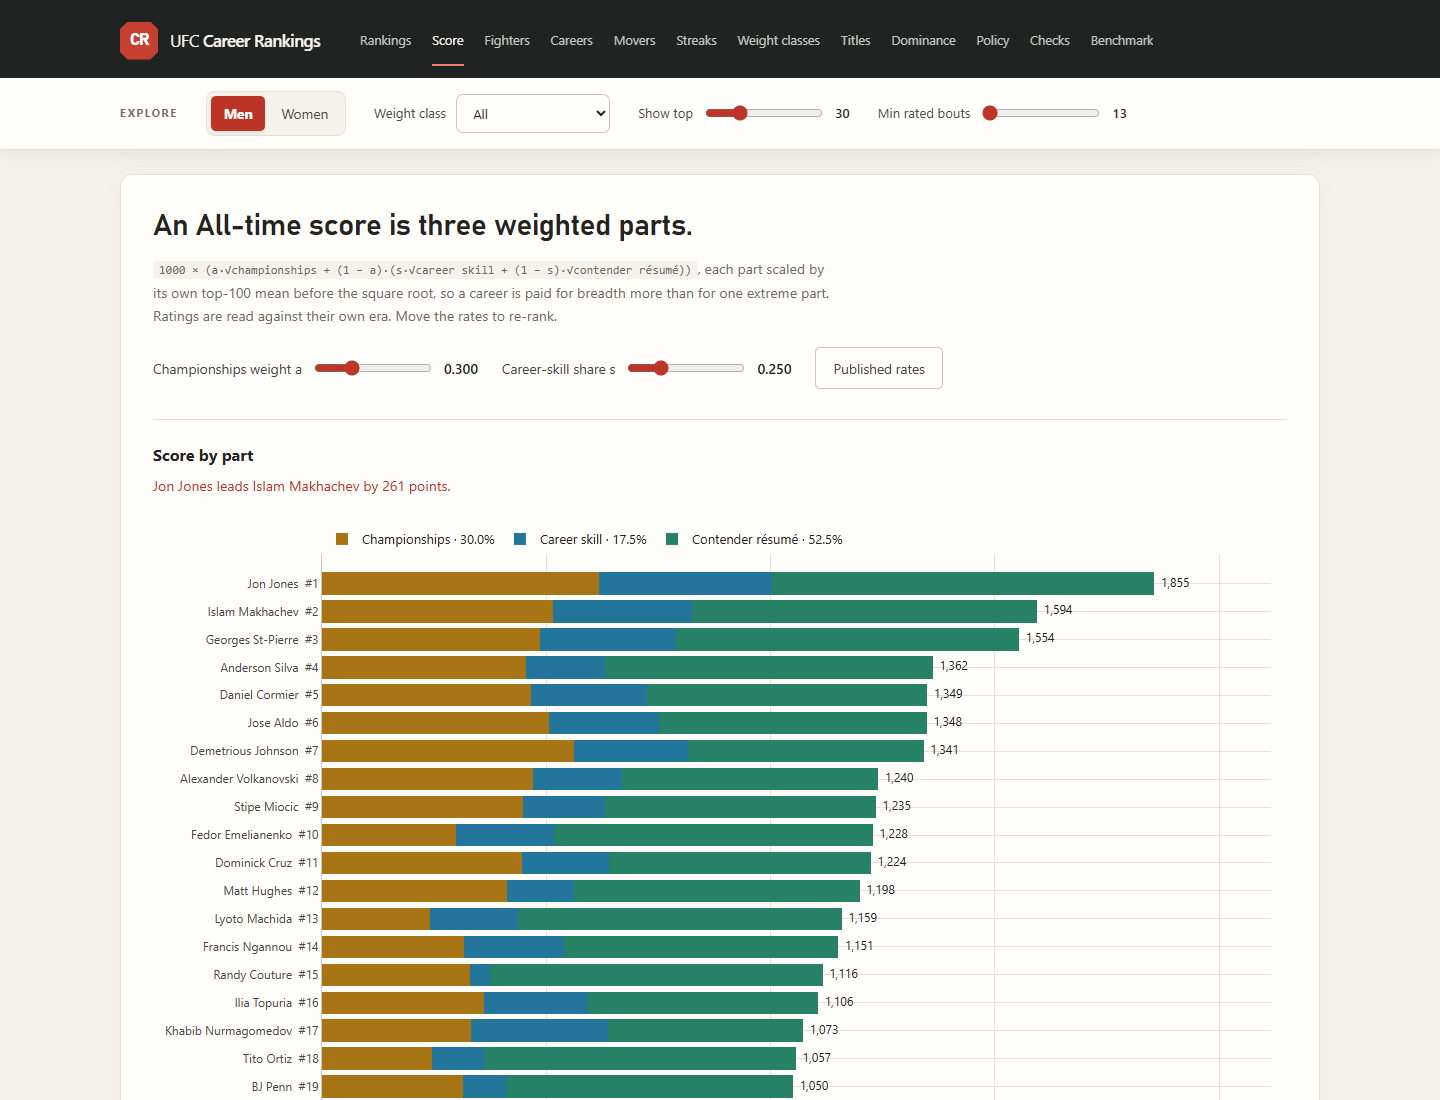
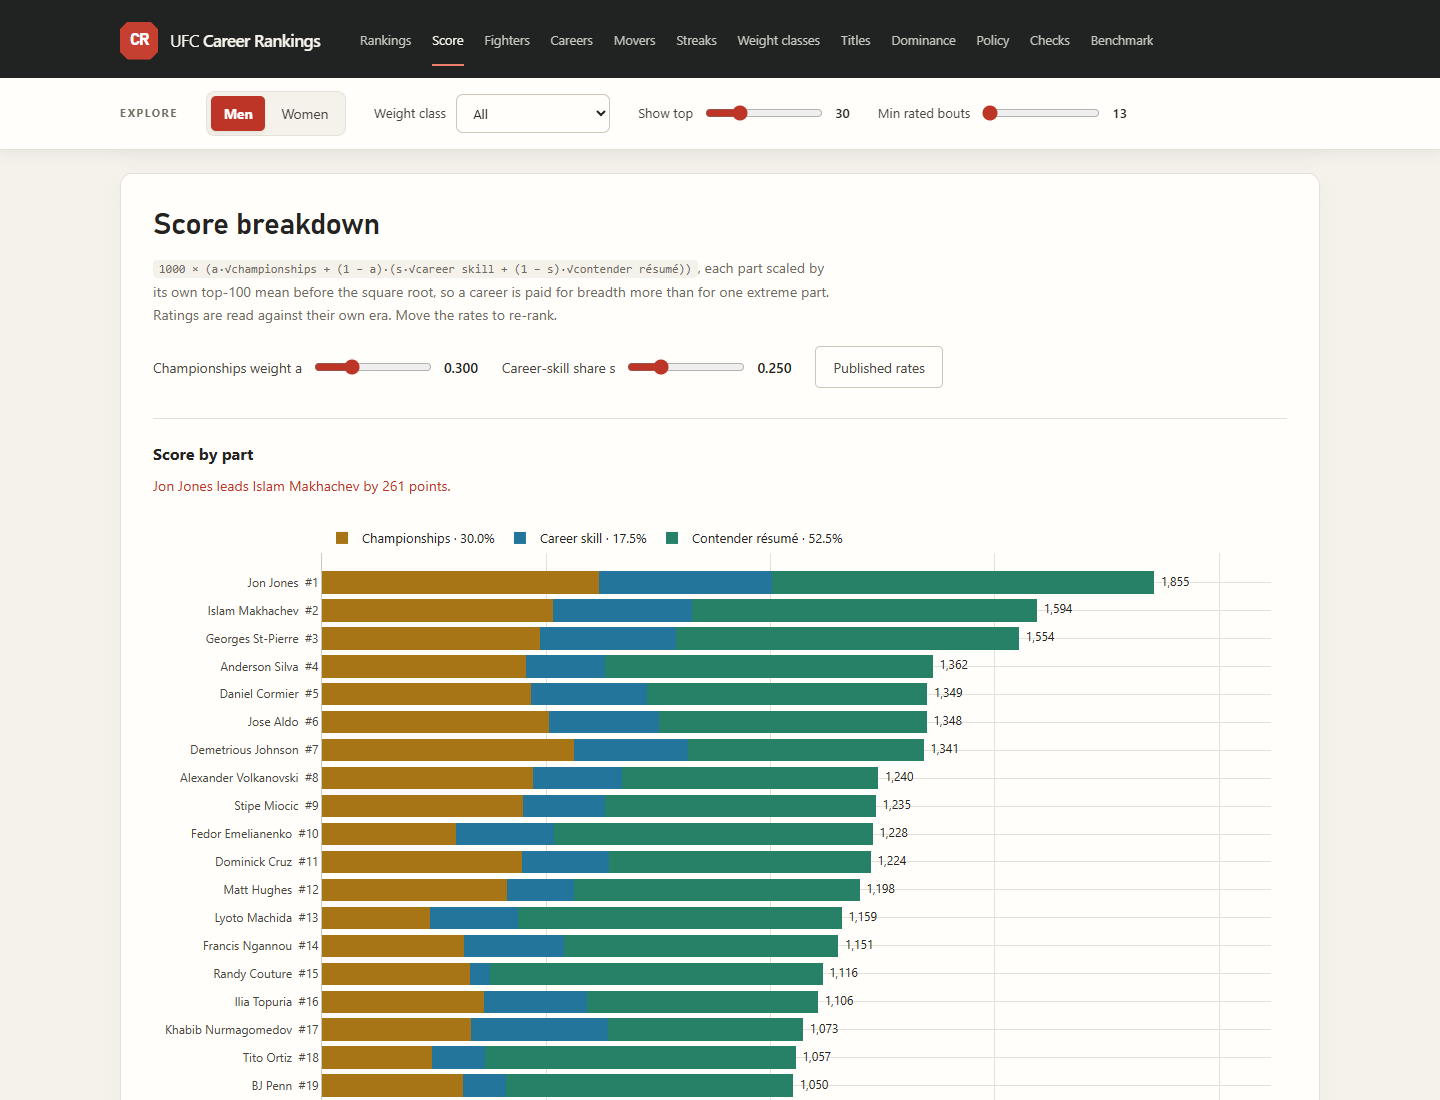
Replace site slogans with plain headings and shorter copy

diff --git a/site/index.html b/site/index.html
@@ -5,7 +5,7 @@
 <meta name="viewport" content="width=device-width, initial-scale=1">
 <title>UFC Career Rankings</title>
 <meta name="description" content="The UFC Career Rankings boards (All-time, Prime, Current) and the evidence behind them, interactive.">
-<link rel="stylesheet" href="style.css?v=0dbe5f18fb">
+<link rel="stylesheet" href="style.css?v=afbafd7fbc">
 <script>
 addEventListener("error", (e) => {
   const m = e.message || "could not load " + (e.target.src || e.target.href);
@@ -43,17 +43,17 @@ addEventListener("error", (e) => {
 <main class="wrap" id="top">
   <p id="fail" class="callout" role="alert" hidden>Part of the page failed; a hard reload (Ctrl+F5) usually fixes it.</p>
   <section class="hero">
-    <div class="hero-topline"><span class="eyebrow">The career. The peak. The present.</span><span id="release-label" class="release-label"></span></div>
-    <h1>Greatness has<br>more than <em>one measure.</em></h1>
-    <p class="lede">One rating model is fitted to every recorded bout, then read three ways: what a career was worth
-      (<b>All-time</b>), the best ten years (<b>Prime</b>) and form now (<b>Current</b>). All-time and Prime count every
-      promotion; Current and the weight-class views count the UFC.</p>
-    <a class="hero-link" href="#rankings">Explore the boards <span aria-hidden="true">↘</span></a>
+    <div class="hero-topline"><span id="release-label" class="release-label"></span></div>
+    <h1>UFC Career Rankings</h1>
+    <p class="lede">Rank fighters by career (<b>All-time</b>), best ten years (<b>Prime</b>), or recent form (<b>Current</b>).
+      One model rates every recorded bout. All-time and Prime include all promotions;
+      Current and weight-class boards use UFC bouts.</p>
+    <a class="hero-link" href="#rankings">View rankings <span aria-hidden="true">↘</span></a>
     <div class="facts" id="facts" aria-label="Published board leaders"></div>
   </section>
 
   <section id="rankings">
-    <h2>Three boards, three questions.</h2>
+    <h2>Rankings</h2>
     <p class="note">The published boards. A weight class on the All-time board shows that class's board, earned in UFC
       bouts only. A blank Prime rank means the fighter did not qualify. Click a name to add it to
       <a href="#fighters">Fighters</a>.</p>
@@ -68,7 +68,7 @@ addEventListener("error", (e) => {
   </section>
 
   <section id="anatomy">
-    <h2>An All-time score is three weighted parts.</h2>
+    <h2>Score breakdown</h2>
     <p class="note"><code>1000 × (a·√championships + (1 − a)·(s·√career skill + (1 − s)·√contender résumé))</code>, each
       part scaled by its own top-100 mean before the square root, so a career is paid for breadth more than for one
       extreme part. Ratings are read against their own era. Move the rates to re-rank.</p>
@@ -80,11 +80,11 @@ addEventListener("error", (e) => {
     <div id="anat-summary" class="callout"></div>
     <figure><h3>Score by part</h3><p class="insight" id="anat-chart-i"></p><div id="anat-chart" class="chart"></div><figcaption id="anat-chart-s"></figcaption></figure>
     <div class="row"><label>Fighter <input id="rob-pick" list="names" class="pick"></label></div>
-    <figure><h3>One fighter's rank at every exchange rate</h3><p class="insight" id="rob-chart-i"></p><div id="rob-chart" class="chart"></div><figcaption id="rob-chart-s"></figcaption></figure>
+    <figure><h3>Rank sensitivity to score weights</h3><p class="insight" id="rob-chart-i"></p><div id="rob-chart" class="chart"></div><figcaption id="rob-chart-s"></figcaption></figure>
   </section>
 
   <section id="fighters">
-    <h2>Every career has its own shape.</h2>
+    <h2>Fighter comparisons</h2>
     <p class="note">Era-adjusted rating after each bout, up to six fighters: each year is shifted by how far its
       contender line sat from the average year's, so careers in different eras share one scale. Later bouts revise
       earlier ratings, so an early-career point is read with hindsight.</p>
@@ -95,23 +95,23 @@ addEventListener("error", (e) => {
   </section>
 
   <section id="careers">
-    <h2>Career mass rewards years spent above the contender bar.</h2>
-    <p class="note">Each active year adds how far the fighter's average rating stood above that year's bar; no year subtracts.</p>
+    <h2>Career scores by year</h2>
+    <p class="note">Career mass adds, for each active year, how far the fighter's average rating stood above that year's bar; no year subtracts.</p>
     <div class="row"><label>Fighter <input id="rec-pick" list="names" class="pick"></label></div>
     <figure><h3>Credit by year</h3><p class="insight" id="rec-chart-i"></p><div id="rec-chart" class="chart"></div><figcaption id="rec-chart-s"></figcaption></figure>
     <div class="row"><label>Raise every year's bar by <input id="bar-d" type="range" min="0" max="200" step="25"><output id="o-bar-d"></output> points</label></div>
-    <figure><h3>Does the order survive a higher bar?</h3><p class="insight" id="ladder-chart-i"></p><div id="ladder-chart" class="chart"></div><figcaption id="ladder-chart-s"></figcaption></figure>
+    <figure><h3>Rankings at higher contender thresholds</h3><p class="insight" id="ladder-chart-i"></p><div id="ladder-chart" class="chart"></div><figcaption id="ladder-chart-s"></figcaption></figure>
     <figure><h3>All-time against Prime</h3><p class="insight" id="lp-chart-i"></p><div id="lp-chart" class="chart"></div><figcaption id="lp-chart-s"></figcaption></figure>
   </section>
 
   <section id="movers">
-    <h2>One year can remake a rating.</h2>
+    <h2>Annual rating changes</h2>
     <div class="row"><label>Year <select id="mov-year"></select></label></div>
     <figure><h3>Biggest rises and falls</h3><p class="insight" id="mov-chart-i"></p><div id="mov-chart" class="chart"></div><figcaption id="mov-chart-s"></figcaption></figure>
   </section>
 
   <section id="streaks">
-    <h2>Long streaks differ in who they beat.</h2>
+    <h2>UFC win streaks</h2>
     <p class="note">Unbroken UFC win runs; a draw or loss ends one. Click a row to mark it.</p>
     <div class="row">
       <label>Sort <select id="st-sort"><option value="length">Longest</option><option value="quality">Toughest schedule</option><option value="title_wins">Most title wins</option></select></label>
@@ -122,7 +122,7 @@ addEventListener("error", (e) => {
   </section>
 
   <section id="divisions">
-    <h2>The strongest weight class changes over time.</h2>
+    <h2>Weight-class strength</h2>
     <p class="note">UFC bouts only. These chips and years apply to this section.</p>
     <div class="row"><div id="dv-chips" class="chips toggles"></div></div>
     <div class="row">
@@ -137,28 +137,28 @@ addEventListener("error", (e) => {
   </section>
 
   <section id="lineage">
-    <h2>A few reigns last years; most do not.</h2>
+    <h2>Title reigns</h2>
     <div class="row"><label>Class <select id="tl-div"></select></label>
       <label><input id="tl-int" type="checkbox"> Include interim belts</label></div>
-    <figure><h3>The belt, reign by reign</h3><p class="insight" id="tl-chart-i"></p><div id="tl-chart" class="chart"></div><figcaption id="tl-chart-s"></figcaption></figure>
+    <figure><h3>Title history</h3><p class="insight" id="tl-chart-i"></p><div id="tl-chart" class="chart"></div><figcaption id="tl-chart-s"></figcaption></figure>
   </section>
 
   <section id="dominance">
-    <h2>Some fighters win far more one-sidedly.</h2>
+    <h2>Dominance in wins</h2>
     <p class="note">Strike differential, control time and submission attempts per win. Not a rating input.</p>
     <div class="row"><label>Min wins <input id="dm-min" type="range" min="3" max="20" value="8"><output id="o-dm-min">8</output></label></div>
     <figure><h3>Mean dominance per win</h3><p class="insight" id="dm-chart-i"></p><div id="dm-chart" class="chart"></div><figcaption id="dm-chart-s"></figcaption></figure>
   </section>
 
   <section id="policy">
-    <h2>Integrity debits are a stated judgement, kept off the boards.</h2>
-    <p class="note">Fixed debits for wins with a confirmed PED violation, a disqualification or a missed weight.</p>
+    <h2>Integrity policy</h2>
+    <p class="note">Judgement-based deductions for wins with a confirmed PED violation, a disqualification or a missed weight. These do not affect the published boards.</p>
     <figure><h3>Rank before and after the debits</h3><p class="insight" id="pol-chart-i"></p><div id="pol-chart" class="chart"></div><figcaption id="pol-chart-s"></figcaption></figure>
     <div id="pol-table" class="table-wrap short" role="region" aria-label="Integrity ledger" tabindex="0"></div>
   </section>
 
   <section id="checks">
-    <h2>Pre-fight forecasts, checked against results.</h2>
+    <h2>Forecast accuracy</h2>
     <p class="note">Each bout's pre-fight win probability against how often those fighters won. Only earlier bouts inform
       a forecast.</p>
     <div class="row"><label>Bouts <select id="cal-seg"></select></label></div>
@@ -166,8 +166,8 @@ addEventListener("error", (e) => {
   </section>
 
   <section id="benchmark">
-    <h2>A check against FightMatrix, not a target.</h2>
-    <figure><h3>All-time rank here and there</h3><p class="insight" id="bm-chart-i"></p><div id="bm-chart" class="chart"></div><figcaption id="bm-chart-s"></figcaption></figure>
+    <h2>FightMatrix comparison</h2>
+    <figure><h3>All-time ranks compared with FightMatrix</h3><p class="insight" id="bm-chart-i"></p><div id="bm-chart" class="chart"></div><figcaption id="bm-chart-s"></figcaption></figure>
   </section>
 
   <footer>

diff --git a/site/style.css b/site/style.css
@@ -70,7 +70,7 @@ input[type=checkbox] { accent-color: var(--accent); width: 18px; height: 18px; }
 .hero-topline { display: flex; align-items: center; justify-content: space-between; gap: 16px; flex-wrap: wrap; }
 .eyebrow { color: var(--accent); }
 .release-label { color: var(--muted); font-size: .75rem; font-variant-numeric: tabular-nums; }
-h1 { font: 700 clamp(2.8rem, 5.5vw, 5rem)/1.04 var(--display); letter-spacing: -.045em; margin: 24px 0 22px; max-width: 20ch; }
+h1 { font: 700 clamp(2rem, 4vw, 3.3rem)/1.1 var(--display); letter-spacing: -.045em; margin: 24px 0 22px; max-width: 20ch; }
 h1 em { font-family: Georgia, serif; font-weight: 400; letter-spacing: -.055em; color: var(--accent); }
 .lede { color: var(--text-2); max-width: 76ch; font-size: 1.03rem; }
 .hero-link { display: inline-flex; align-items: center; gap: 26px; font-size: .85rem; font-weight: 700; margin-top: 8px; }
@@ -160,7 +160,7 @@ footer p:last-child { display: flex; flex-wrap: wrap; justify-content: space-bet
   .hero-topline { gap: 5px; }
   .eyebrow { font-size: .6rem; }
   .release-label { font-size: .65rem; }
-  h1 { margin-block: 20px; font-size: clamp(2.4rem,10vw,3.8rem); }
+  h1 { margin-block: 20px; font-size: clamp(1.9rem,8vw,2.8rem); }
   .lede { font-size: .9rem; }
   .facts { grid-template-columns: repeat(2,minmax(0,1fr)); margin-top: 24px; }
   .facts div { padding: 16px 14px; }

diff --git a/README.md b/README.md
@@ -45,8 +45,8 @@ gives the exact rules.
 | [**Integrity policy and outside check**](https://symonyeal.github.io/UFC-Career-Rankings/#policy) | The PED, disqualification and missed-weight ledger, and where the board disagrees with FightMatrix. |
 | [**Forecast calibration**](https://symonyeal.github.io/UFC-Career-Rankings/#checks) | How often pre-fight favourites actually won, against the probability they were given, with 95% intervals. |
 
-Each section heading states the section's point. Under every chart, one line computed from the data gives the
-finding for the current controls. The page follows the reader's light or dark setting.
+Each chart includes a finding calculated from the data under the current controls.
+The page follows the reader's light or dark setting.
 
 On a phone, open **Explore the rankings** to change the filters. Wide tables scroll
 inside their panels. Weight-class buttons work with a keyboard, and the page follows
